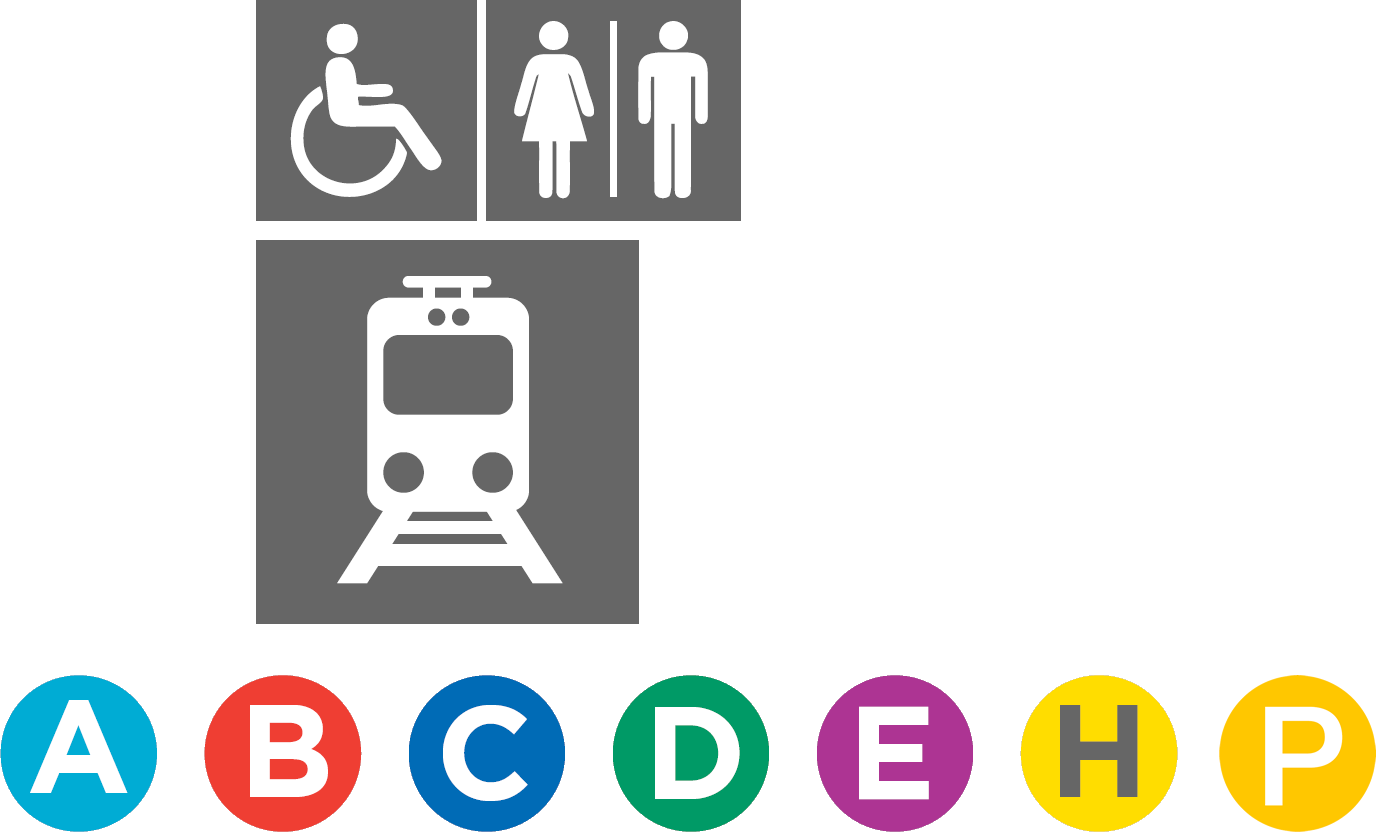
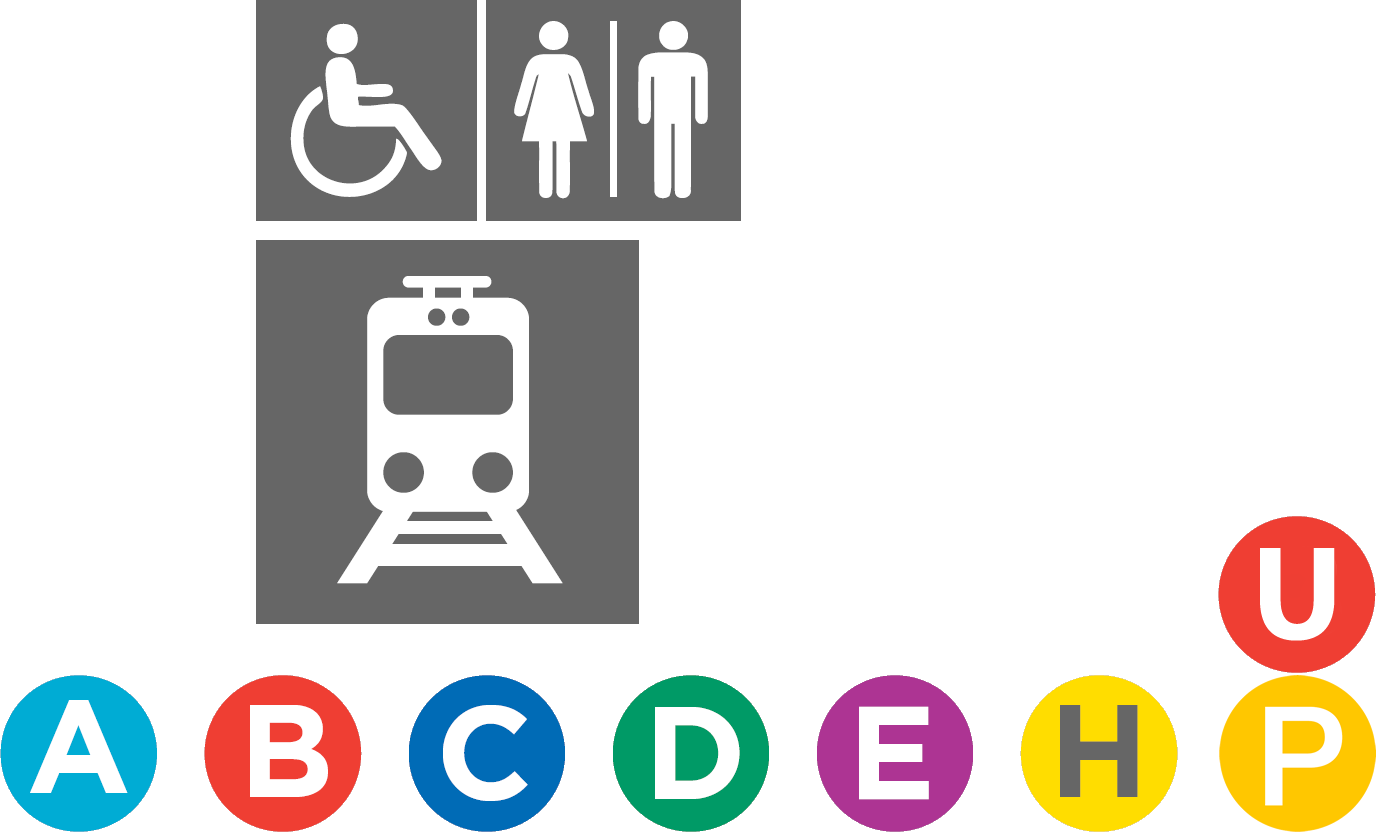
agrego combinaciones, imagenes de lineas en estado

Changed region(s): [[0.875, 0.625, 1.0, 0.8125]]

diff --git a/GuiaTBAWP/Views/Subtes/SubteLineas.xaml b/GuiaTBAWP/Views/Subtes/SubteLineas.xaml
@@ -61,13 +61,20 @@
                             </StackPanel>
                             <StackPanel Height="130">
                                 <TextBlock Style="{StaticResource PhoneTextLargeStyle}">Perú</TextBlock>
+                                <StackPanel Orientation="Horizontal" HorizontalAlignment="Left" Margin="10">
+                                    <Image Source="/Images/Subtes/lineaD.png" Height="30" Width="30" Margin="5"></Image>
+                                    <Image Source="/Images/Subtes/lineaE.png" Height="30" Width="30" Margin="5"></Image>
+                                </StackPanel>
                             </StackPanel>
                             <StackPanel Height="130">
                                 <TextBlock Style="{StaticResource PhoneTextLargeStyle}">Piedras</TextBlock>
                             </StackPanel>
                             <StackPanel Height="130">
-                                <TextBlock Style="{StaticResource PhoneTextLargeStyle}">Lima</TextBlock>
-                            </StackPanel>
+                                    <TextBlock Style="{StaticResource PhoneTextLargeStyle}">Lima</TextBlock>
+                                    <StackPanel Orientation="Horizontal" HorizontalAlignment="Left" Margin="10">
+                                        <Image Source="/Images/Subtes/lineaC.png" Height="30" Width="30" Margin="5"></Image>
+                                    </StackPanel>
+                                </StackPanel>
                             <StackPanel Height="130">
                                 <TextBlock Style="{StaticResource PhoneTextLargeStyle}">Sáenz Peña</TextBlock>
                             </StackPanel>
@@ -81,8 +88,11 @@
                                 <TextBlock Style="{StaticResource PhoneTextLargeStyle}">Alberti</TextBlock>
                             </StackPanel>
                             <StackPanel Height="130">
-                                <TextBlock Style="{StaticResource PhoneTextLargeStyle}">Plaza Miserere</TextBlock>
-                            </StackPanel>
+                                    <TextBlock Style="{StaticResource PhoneTextLargeStyle}">Plaza Miserere</TextBlock>
+                                    <StackPanel Orientation="Horizontal" HorizontalAlignment="Left" Margin="10">
+                                        <Image Source="/Images/Subtes/lineaH.png" Height="30" Width="30" Margin="5"></Image>
+                                    </StackPanel>
+                                </StackPanel>
                             <StackPanel Height="130">
                                 <TextBlock Style="{StaticResource PhoneTextLargeStyle}">Loria</TextBlock>
                             </StackPanel>
@@ -161,6 +171,10 @@
                                 </StackPanel>
                                 <StackPanel Height="130">
                                     <TextBlock Style="{StaticResource PhoneTextLargeStyle}">Carlos Pelegrini</TextBlock>
+                                    <StackPanel Orientation="Horizontal" HorizontalAlignment="Left" Margin="10">
+                                        <Image Source="/Images/Subtes/lineaC.png" Height="30" Width="30" Margin="5"></Image>
+                                        <Image Source="/Images/Subtes/lineaD.png" Height="30" Width="30" Margin="5"></Image>
+                                    </StackPanel>
                                 </StackPanel>
                                 <StackPanel Height="130">
                                     <TextBlock Style="{StaticResource PhoneTextLargeStyle}">Uruguay</TextBlock>
@@ -173,6 +187,9 @@
                                 </StackPanel>
                                 <StackPanel Height="130">
                                     <TextBlock Style="{StaticResource PhoneTextLargeStyle}">Pueyrredón</TextBlock>
+                                    <StackPanel Orientation="Horizontal" HorizontalAlignment="Left" Margin="10">
+                                        <Image Source="/Images/Subtes/lineaH.png" Height="30" Width="30" Margin="5"></Image>
+                                    </StackPanel>
                                 </StackPanel>
                                 <StackPanel Height="130">
                                     <TextBlock Style="{StaticResource PhoneTextLargeStyle}">Carlos Gardel</TextBlock>
@@ -245,15 +262,25 @@
                                 </StackPanel>
                                 <StackPanel Height="130">
                                     <TextBlock Style="{StaticResource PhoneTextLargeStyle}">Diagonal Norte</TextBlock>
+                                    <StackPanel Orientation="Horizontal" HorizontalAlignment="Left" Margin="10">
+                                        <Image Source="/Images/Subtes/lineaB.png" Height="30" Width="30" Margin="5"></Image>
+                                        <Image Source="/Images/Subtes/lineaD.png" Height="30" Width="30" Margin="5"></Image>
+                                    </StackPanel>
                                 </StackPanel>
                                 <StackPanel Height="130">
                                     <TextBlock Style="{StaticResource PhoneTextLargeStyle}">Avenida de Mayo</TextBlock>
+                                    <StackPanel Orientation="Horizontal" HorizontalAlignment="Left" Margin="10">
+                                        <Image Source="/Images/Subtes/lineaA.png" Height="30" Width="30" Margin="5"></Image>
+                                    </StackPanel>
                                 </StackPanel>
                                 <StackPanel Height="130">
                                     <TextBlock Style="{StaticResource PhoneTextLargeStyle}">Moreno</TextBlock>
                                 </StackPanel>
                                 <StackPanel Height="130">
                                     <TextBlock Style="{StaticResource PhoneTextLargeStyle}">Independencia</TextBlock>
+                                    <StackPanel Orientation="Horizontal" HorizontalAlignment="Left" Margin="10">
+                                        <Image Source="/Images/Subtes/lineaE.png" Height="30" Width="30" Margin="5"></Image>
+                                    </StackPanel>
                                 </StackPanel>
                                 <StackPanel Height="130">
                                     <TextBlock Style="{StaticResource PhoneTextLargeStyle}">San Juan</TextBlock>
@@ -303,9 +330,17 @@
                             <StackPanel Margin="30,0,0,0">
                                 <StackPanel Height="130">
                                     <TextBlock Style="{StaticResource PhoneTextLargeStyle}">Catedral</TextBlock>
+                                    <StackPanel Orientation="Horizontal" HorizontalAlignment="Left" Margin="10">
+                                        <Image Source="/Images/Subtes/lineaA.png" Height="30" Width="30" Margin="5"></Image>
+                                        <Image Source="/Images/Subtes/lineaE.png" Height="30" Width="30" Margin="5"></Image>
+                                    </StackPanel>
                                 </StackPanel>
                                 <StackPanel Height="130">
                                     <TextBlock Style="{StaticResource PhoneTextLargeStyle}">9 de Julio</TextBlock>
+                                    <StackPanel Orientation="Horizontal" HorizontalAlignment="Left" Margin="10">
+                                        <Image Source="/Images/Subtes/lineaB.png" Height="30" Width="30" Margin="5"></Image>
+                                        <Image Source="/Images/Subtes/lineaC.png" Height="30" Width="30" Margin="5"></Image>
+                                    </StackPanel>
                                 </StackPanel>
                                 <StackPanel Height="130">
                                     <TextBlock Style="{StaticResource PhoneTextLargeStyle}">Tribunales</TextBlock>
@@ -392,21 +427,34 @@
                             <StackPanel Margin="30,0,0,0">
                                 <StackPanel Height="130">
                                     <TextBlock Style="{StaticResource PhoneTextLargeStyle}">Retiro</TextBlock>
+                                    <StackPanel Orientation="Horizontal" HorizontalAlignment="Left" Margin="10">
+                                        <Image Source="/Images/Subtes/lineaC.png" Height="30" Width="30" Margin="5"></Image>
+                                    </StackPanel>
                                 </StackPanel>
                                 <StackPanel Height="130">
                                     <TextBlock Style="{StaticResource PhoneTextLargeStyle}">Catalinas</TextBlock>
                                 </StackPanel>
                                 <StackPanel Height="130">
                                     <TextBlock Style="{StaticResource PhoneTextLargeStyle}">Correo Central</TextBlock>
+                                    <StackPanel Orientation="Horizontal" HorizontalAlignment="Left" Margin="10">
+                                        <Image Source="/Images/Subtes/lineaB.png" Height="30" Width="30" Margin="5"></Image>
+                                    </StackPanel>
                                 </StackPanel>
                                 <StackPanel Height="130">
                                     <TextBlock Style="{StaticResource PhoneTextLargeStyle}">Bolívar</TextBlock>
+                                    <StackPanel Orientation="Horizontal" HorizontalAlignment="Left" Margin="10">
+                                        <Image Source="/Images/Subtes/lineaA.png" Height="30" Width="30" Margin="5"></Image>
+                                        <Image Source="/Images/Subtes/lineaD.png" Height="30" Width="30" Margin="5"></Image>
+                                    </StackPanel>
                                 </StackPanel>
                                 <StackPanel Height="130">
                                     <TextBlock Style="{StaticResource PhoneTextLargeStyle}">Belgrano</TextBlock>
                                 </StackPanel>
                                 <StackPanel Height="130">
                                     <TextBlock Style="{StaticResource PhoneTextLargeStyle}">Independencia</TextBlock>
+                                    <StackPanel Orientation="Horizontal" HorizontalAlignment="Left" Margin="10">
+                                        <Image Source="/Images/Subtes/lineaC.png" Height="30" Width="30" Margin="5"></Image>
+                                    </StackPanel>
                                 </StackPanel>
                                 <StackPanel Height="130">
                                     <TextBlock Style="{StaticResource PhoneTextLargeStyle}">San José</TextBlock>
@@ -419,6 +467,9 @@
                                 </StackPanel>
                                 <StackPanel Height="130">
                                     <TextBlock Style="{StaticResource PhoneTextLargeStyle}">Jujuy</TextBlock>
+                                    <StackPanel Orientation="Horizontal" HorizontalAlignment="Left" Margin="10">
+                                        <Image Source="/Images/Subtes/lineaH.png" Height="30" Width="30" Margin="5"></Image>
+                                    </StackPanel>
                                 </StackPanel>
                                 <StackPanel Height="130">
                                     <TextBlock Style="{StaticResource PhoneTextLargeStyle}">General Urquiza</TextBlock>
@@ -443,6 +494,9 @@
                                 </StackPanel>
                                 <StackPanel Height="130">
                                     <TextBlock Style="{StaticResource PhoneTextLargeStyle}">Plaza de los Virreyes</TextBlock>
+                                    <StackPanel Orientation="Horizontal" HorizontalAlignment="Left" Margin="10">
+                                        <Image Source="/Images/Subtes/lineaP.png" Height="30" Width="30" Margin="5"></Image>
+                                    </StackPanel>
                                 </StackPanel>
                             </StackPanel>
                         </StackPanel>
@@ -486,21 +540,33 @@
                                 </StackPanel>
                                 <StackPanel Height="130">
                                     <TextBlock Style="{StaticResource PhoneTextLargeStyle}">Santa Fe</TextBlock>
+                                    <StackPanel Orientation="Horizontal" HorizontalAlignment="Left" Margin="10">
+                                        <Image Source="/Images/Subtes/lineaD.png" Height="30" Width="30" Margin="5"></Image>
+                                    </StackPanel>
                                 </StackPanel>
                                 <StackPanel Height="130">
                                     <TextBlock Style="{StaticResource PhoneTextLargeStyle}">Cordoba</TextBlock>
                                 </StackPanel>
                                 <StackPanel Height="130">
                                     <TextBlock Style="{StaticResource PhoneTextLargeStyle}">Corrientes</TextBlock>
+                                    <StackPanel Orientation="Horizontal" HorizontalAlignment="Left" Margin="10">
+                                        <Image Source="/Images/Subtes/lineaB.png" Height="30" Width="30" Margin="5"></Image>
+                                    </StackPanel>
                                 </StackPanel>
                                 <StackPanel Height="130">
                                     <TextBlock Style="{StaticResource PhoneTextLargeStyle}">Once</TextBlock>
+                                    <StackPanel Orientation="Horizontal" HorizontalAlignment="Left" Margin="10">
+                                        <Image Source="/Images/Subtes/lineaA.png" Height="30" Width="30" Margin="5"></Image>
+                                    </StackPanel>
                                 </StackPanel>
                                 <StackPanel Height="130">
                                     <TextBlock Style="{StaticResource PhoneTextLargeStyle}">Venezuela</TextBlock>
                                 </StackPanel>
                                 <StackPanel Height="130">
                                     <TextBlock Style="{StaticResource PhoneTextLargeStyle}">Humberto 1°</TextBlock>
+                                    <StackPanel Orientation="Horizontal" HorizontalAlignment="Left" Margin="10">
+                                        <Image Source="/Images/Subtes/lineaE.png" Height="30" Width="30" Margin="5"></Image>
+                                    </StackPanel>
                                 </StackPanel>
                                 <StackPanel Height="130">
                                     <TextBlock Style="{StaticResource PhoneTextLargeStyle}">Inclán</TextBlock>
@@ -552,6 +618,9 @@
                             <StackPanel Margin="30,0,0,0">
                                 <StackPanel Height="130">
                                     <TextBlock Style="{StaticResource PhoneTextLargeStyle}">Intendente Saguier</TextBlock>
+                                    <StackPanel Orientation="Horizontal" HorizontalAlignment="Left" Margin="10">
+                                        <Image Source="/Images/Subtes/lineaE.png" Height="30" Width="30" Margin="5"></Image>
+                                    </StackPanel>
                                 </StackPanel>
                                 <StackPanel Height="130">
                                     <TextBlock Style="{StaticResource PhoneTextLargeStyle}">Balbastro</TextBlock>
@@ -625,6 +694,9 @@
                             <StackPanel Margin="30,0,0,0">
                                 <StackPanel Height="130">
                                     <TextBlock Style="{StaticResource PhoneTextLargeStyle}">Intendente Saguier</TextBlock>
+                                    <StackPanel Orientation="Horizontal" HorizontalAlignment="Left" Margin="10">
+                                        <Image Source="/Images/Subtes/lineaE.png" Height="30" Width="30" Margin="5"></Image>
+                                    </StackPanel>
                                 </StackPanel>
                                 <StackPanel Height="130">
                                     <TextBlock Style="{StaticResource PhoneTextLargeStyle}">Balbastro</TextBlock>

diff --git a/GuiaTBAWP/Views/Subtes/SubteEstado.xaml b/GuiaTBAWP/Views/Subtes/SubteEstado.xaml
@@ -36,8 +36,11 @@
                 <ListBox.ItemTemplate>
                     <DataTemplate>
                         <StackPanel Margin="0,0,0,0" Width="432">
-                            <TextBlock Text="{Binding Nombre}" TextWrapping="Wrap" Style="{StaticResource PhoneTextExtraLargeStyle}"/>
-                            <TextBlock Text="{Binding Detalles}" TextWrapping="Wrap" Style="{StaticResource PhoneTextSubtleStyle}"/>
+                            <StackPanel Orientation="Horizontal">
+                                <Image Source="{Binding Nombre, Converter={StaticResource SubteNombreImagenConverter}}"></Image>
+                                <TextBlock Text="{Binding Nombre}" TextWrapping="Wrap" Style="{StaticResource PhoneTextExtraLargeStyle}"/>
+                            </StackPanel>
+                            <TextBlock Margin="50,5,5,5" Text="{Binding Detalles}" TextWrapping="Wrap" Style="{StaticResource PhoneTextSubtleStyle}"/>
                         </StackPanel>
                     </DataTemplate>
                 </ListBox.ItemTemplate>

diff --git a/GuiaTBAWP/Resources/Styles/DefaultStyle.xaml b/GuiaTBAWP/Resources/Styles/DefaultStyle.xaml
@@ -12,6 +12,7 @@
     <converters:PushpinTypeBrushConverter x:Key="PushpinTypeBrushConverter" />
     <converters:LocationGeoCoordinateConverter x:Key="LocationGeoCoordinateConverter" />
     <converters:DistanceConverter x:Key="DistanceConverter" />
+    <converters:SubteNombreImagenConverter x:Key="SubteNombreImagenConverter" />
     
     <!-- #Brushes -->
     <SolidColorBrush x:Key="ControlBackgroundBrush" Color="#A52E2E2E" />

diff --git a/GuiaTBAWP/Converters/SubteNombreImagenConverter.cs b/GuiaTBAWP/Converters/SubteNombreImagenConverter.cs
@@ -1,0 +1,33 @@
+using System;
+using System.Windows.Data;
+using System.Globalization;
+
+namespace GuiaTBAWP.Converters
+{
+    /// <summary>
+    /// Data binding converter for converting a line number to image source
+    /// </summary>
+    public class SubteNombreImagenConverter : IValueConverter
+    {
+        public object Convert(object value, Type targetType, object parameter, CultureInfo culture)
+        {
+            if (value == null) return string.Empty;
+
+            try
+            {
+                var lineletter = value.ToString().Split(' ')[1];
+
+                return string.Format("/Images/Subtes/linea{0}.png", lineletter.ToUpperInvariant());
+            }
+            catch (Exception)
+            {
+                return string.Empty;
+            }
+        }
+
+        public object ConvertBack(object value, Type targetType, object parameter, CultureInfo culture)
+        {
+            throw new NotSupportedException();
+        }
+    }
+}
